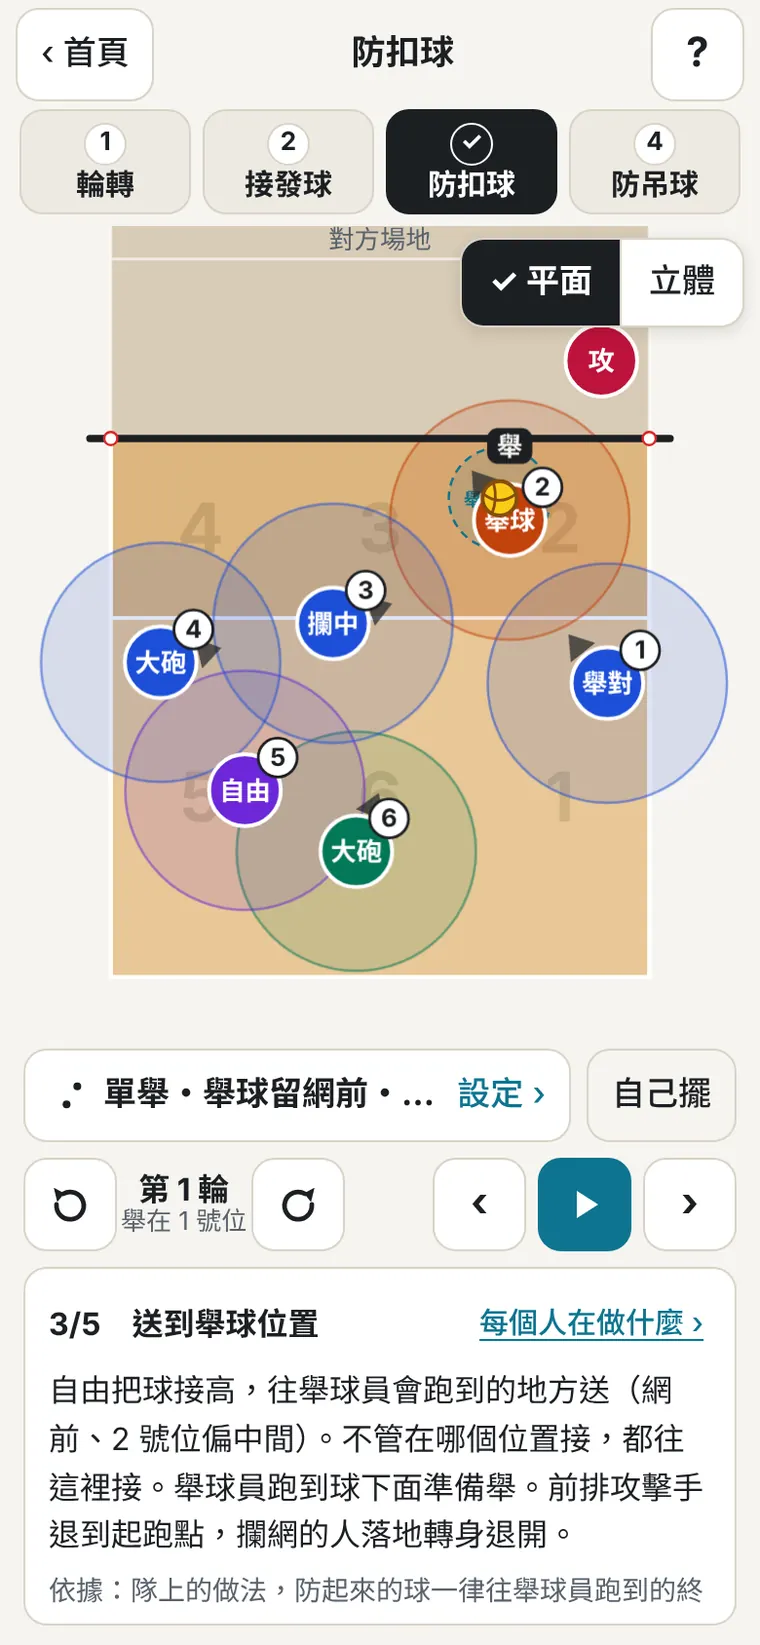
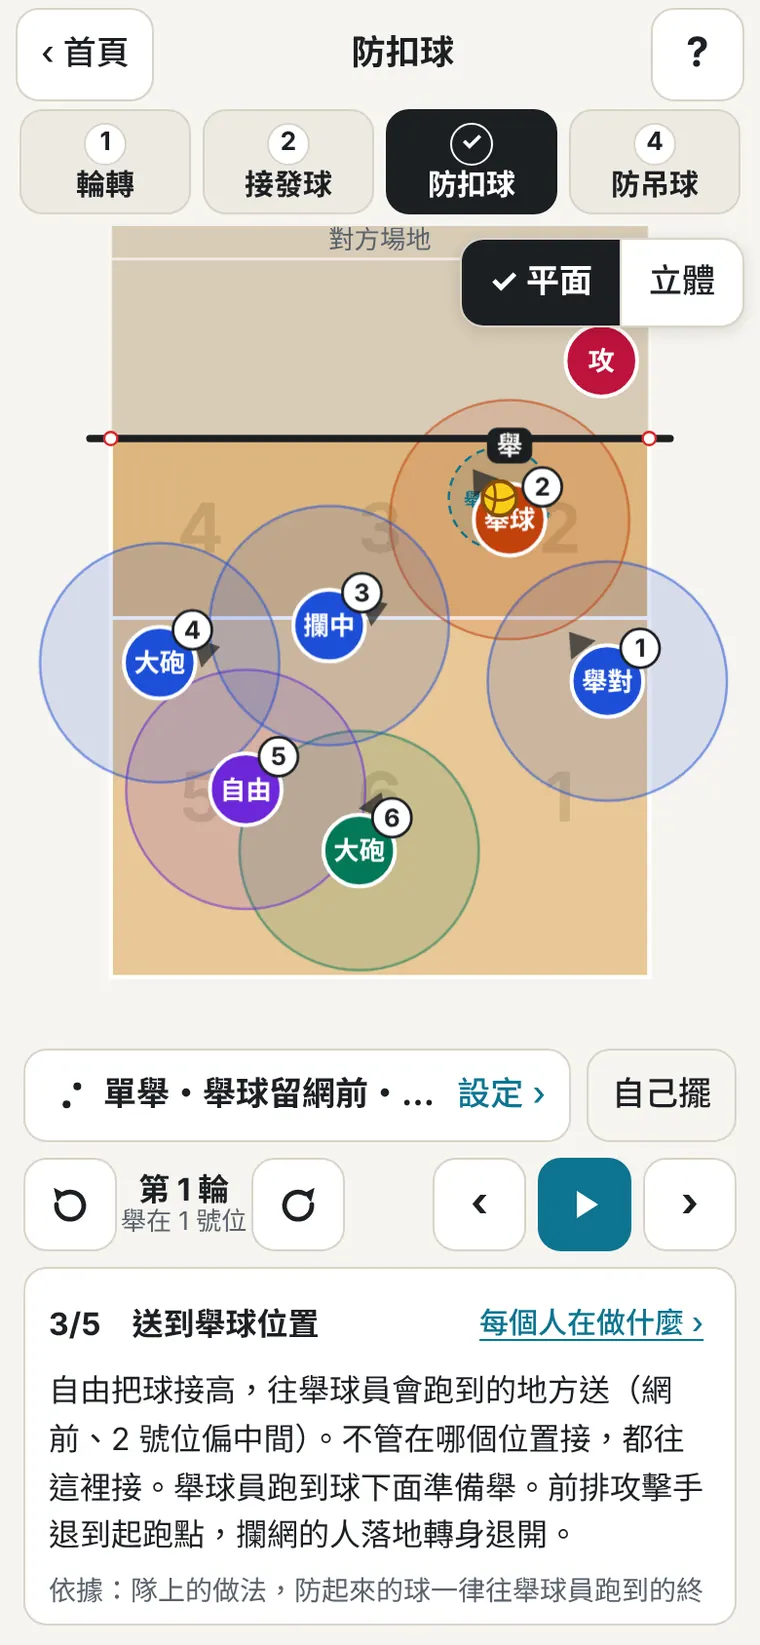
排球站位教室 v2.4.0：舉球時球從舉球的人手上出去、隊員版
- 舉球那一步：舉球的人留在球下面把球舉出去，舉完才就近保護（之前大家先跑走，球從沒人的地方飛出去）
- 隊員版（?team=1）：只留隊上的站法和自己擺，教練用的選項藏起來；設定裡可以傳隊員版連結
- 說明圖重拍

Claude-Session: https://claude.ai/code/session_01Q8m2fzsawgKx5UKmuuzCmE

diff --git a/js/app.js b/js/app.js
@@ -4,11 +4,11 @@
 (() => {
 'use strict';
 
-const APP_VERSION = '2.3.0';
+const APP_VERSION = '2.4.0';
 const BUILD_DATE = '2026-11-16';
 const VERSION_TEXT = `v${APP_VERSION}（${BUILD_DATE}）`;
 const COPY = '© 2026 Ken Chen';
-const KEY = { settings:'vbdef.settings.v1', custom:'vbdef.custom.v1', hint:'vbdef.hint.drag.v1', hint2:'vbdef.hint.v2', screen:'vbdef.screen' };
+const KEY = { simple:'vbdef.simple.v1', settings:'vbdef.settings.v1', custom:'vbdef.custom.v1', hint:'vbdef.hint.drag.v1', hint2:'vbdef.hint.v2', screen:'vbdef.screen' };
 const NS = 'http://www.w3.org/2000/svg';
 const VB = { x:-0.45, y:-3.55, w:9.9, h:13.55 };
 const TARGET = [4.8, 2.6];                       // （舊的目標區，只留給測試對照）
@@ -128,6 +128,21 @@ function sanitizeCustom(o){
   return r;
 }
 const S = Object.assign({}, DEFAULTS, sanitizeSettings(store.get(KEY.settings, {})));
+// 隊員版：網址加 ?team=1 打開就是隊員版（記在這台裝置），?coach=1 換回教練版
+let simple = store.get(KEY.simple, false) === true;
+try{
+  const qp = new URLSearchParams(location.search);
+  if (qp.has('team')){ simple = true; store.set(KEY.simple, true); }
+  if (qp.has('coach')){ simple = false; store.set(KEY.simple, false); }
+  if (qp.has('team') || qp.has('coach')) history.replaceState(history.state, '', location.pathname + location.hash);
+}catch(e){}
+// 隊員版固定用隊上的做法：單舉、隊上的接發球、舉球留網前、只有大砲和攔中攔網
+function applySimple(){
+  document.body.classList.toggle('simple', simple);
+  if (!simple) return;
+  Object.assign(S, { system:'51', recv:'team', formation:'ours', canOH:true, canMB:true, canR:false, mbLate:false, libero:5, radius:2 });
+}
+applySimple();
 S.attacker = Object.assign({}, S.attacker);
 let custom = sanitizeCustom(store.get(KEY.custom, null));
 function saveSettings(){
@@ -569,17 +584,18 @@ function buildSteps(L, type, comp, dec, att){
   const H = HIT[hitter];
   const P3 = clonePos(P2);
   P3[hitter] = [H[0], H[1] + .2];
-  const others = ROLES.filter(r => r !== hitter).sort((p, q) => dist(P2[p], H) - dist(P2[q], H));
+  // 舉球的人留在原地把球舉出去（球從她手上出去），其他人才去保護
+  const others = ROLES.filter(r => r !== hitter && r !== setterRole).sort((p, q) => dist(P2[p], H) - dist(P2[q], H));
   const close = others.slice(0, 3), deep = others.slice(3);
   const sp = coverSpots(H);
   assignSpots(close, sp.close, P2, P3); assignSpots(deep, sp.deep, P2, P3);
   const over = [H[0] < 4.5 ? H[0] + 2.6 : H[0] - 2.6, -2.8];
   const toSide = hitter === 'OH1' ? '4 號位' : (hitter === 'OPP' ? '2 號位' : '中間');
   steps.push({ key:'set', title:'舉球・保護', pos:P3, face:H, ball:{ from:TG, to:H, dur:900, arc:1.0, z:[2.4, 2.95, 4.8], then:{ to:over, dur:300, arc:.1, z:[2.95, .05, 0] } },
-    cap:`${short(setterRole)}舉高球到${toSide}給${short(hitter)}攻擊。離攻擊手最近的三個人（${close.map(short).join('、')}）蹲低靠近保護，另外兩個人站後面一點：球被攔回來才接得到。`,
-    rule:'依據：離攻擊手最近的三個人近距離保護，最遠的兩個人守後面（教練慣例）。',
-    marks:{ hit:hitter, target: d === 'S' ? 'fix' : 'rt' }, hitter,
-    notes:allNotes(r => r === hitter ? '助跑攻擊' : close.includes(r) ? '靠近攻擊手、蹲低保護' : '站後面一點，保護比較遠的球') });
+    cap:`${short(setterRole)}站在球下面，把球舉高到${toSide}給${short(hitter)}攻擊，舉完就近保護。離攻擊手最近的三個人（${close.map(short).join('、')}）蹲低靠近保護，${deep.length ? `${deep.map(short).join('、')}站後面一點` : '其他人站後面一點'}：球被攔回來才接得到。`,
+    rule:'依據：離攻擊手最近的人近距離保護，最遠的人守後面（教練慣例）。',
+    marks:{ hit:hitter, set:setterRole, target: d === 'S' ? 'fix' : 'rt' }, hitter,
+    notes:allNotes(r => r === hitter ? '助跑攻擊' : r === setterRole ? '站在球下面舉球，舉完就近保護' : close.includes(r) ? '靠近攻擊手、蹲低保護' : '站後面一點，保護比較遠的球') });
   // 4. 回防
   steps.push({ key:'reset', title:'回防', pos:clonePos(comp.base), ball:null, face:A,
     cap:'球過網後，大家回到基本站位，看對方舉給誰，再移動到防守位置。', marks:{},
@@ -737,7 +753,9 @@ function buildRecvSteps(L, rc, dec){
   const H = HIT[spot[hitter] || 'OH1'];
   const P3 = clonePos(P2);
   P3[hitter] = [H[0], H[1] + .2];
-  const others = ROLES.filter(r => r !== hitter).sort((p, q) => dist(P2[p], H) - dist(P2[q], H));
+  const setterRole = 'S';
+  // 舉球員留在原地把球舉出去（球從她手上出去），其他人才去保護
+  const others = ROLES.filter(r => r !== hitter && r !== setterRole).sort((p, q) => dist(P2[p], H) - dist(P2[q], H));
   const close = others.slice(0, 3), deep = others.slice(3);
   const sp = coverSpots(H);
   assignSpots(close, sp.close, P2, P3); assignSpots(deep, sp.deep, P2, P3);
@@ -745,10 +763,10 @@ function buildRecvSteps(L, rc, dec){
   const toSide = spot[hitter] === 'OPP' ? '2 號位' : (spot[hitter] === 'MB' ? '中間' : '4 號位');
   steps.push({ key:'set', title:'舉球・保護', pos:P3, face:H, off:[], hitter,
     ball:{ from:rt(), to:H, dur:950, arc:1.0, z:[2.4, 2.95, 4.8], then:{ to:over, dur:320, arc:.1, z:[2.95, .05, 0] } },
-    cap:`舉球員舉高球到${toSide}給${short(hitter)}攻擊。離攻擊手最近的三個人（${close.map(short).join('、')}）蹲低靠近保護，另外兩個人站後面一點。` +
+    cap:`舉球員站在球下面，把球舉高到${toSide}給${short(hitter)}攻擊，舉完就近保護。離攻擊手最近的三個人（${close.map(short).join('、')}）蹲低靠近保護，其他人站後面一點。` +
       (rc.swap ? `第一波打完，${short(rc.swap[0])}和${short(rc.swap[1])}再交換位置。` : ''),
-    rule:'依據：離攻擊手最近的三個人近距離保護，最遠的兩個人守後面（教練慣例）。', marks:{ hit:hitter, target:'rt' },
-    notes:allNotes(r => r === hitter ? '助跑攻擊' : close.includes(r) ? '靠近攻擊手、蹲低保護' : '站後面一點，保護比較遠的球') });
+    rule:'依據：離攻擊手最近的人近距離保護，最遠的人守後面（教練慣例）。', marks:{ hit:hitter, set:'S', target:'rt' },
+    notes:allNotes(r => r === hitter ? '助跑攻擊' : r === 'S' ? '站在球下面舉球，舉完就近保護' : close.includes(r) ? '靠近攻擊手、蹲低保護' : '站後面一點，保護比較遠的球') });
   // 4. 換到防守位置
   if (rc.team){
     const tb = teamBase(libOff);
@@ -1748,6 +1766,8 @@ function refreshSitUI(){
   $('chipR').textContent = rName();
   $('blockDesc').textContent = blockDesc();
   $('blockResDesc').textContent = BLOCKRES_DESC[S.blockRes];
+  document.querySelectorAll('#modeChips button').forEach(b => b.setAttribute('aria-pressed', String((b.dataset.v === 'team') === simple)));
+  $('modeDesc').textContent = simple ? '隊員版：只有隊上的站法和自己擺，設定只留常用的幾項。' : '教練版：可以換進攻系統、接發球隊形、防守隊形、誰會攔網。傳給隊員時用下面的按鈕，她們打開就是隊員版。';
   $('flowDesc').textContent = S.flow === 'step' ? '每一步停下來讓你看說明，再自動播下一步。' : '球在空中不停下來，像真的比賽；想看每一步的說明，按暫停或用 ‹ › 前後看。';
   document.querySelectorAll('.chips[data-key="mbLate"] button').forEach(b => { b.setAttribute('aria-pressed', String((S.mbLate ? '1' : '0') === b.dataset.v)); b.setAttribute('aria-disabled', String(!S.canMB)); });
 }
@@ -1763,6 +1783,20 @@ function onChip(key, v){
   saveSettings(); refreshSitUI(); refreshStepUI();
   resetPlay(false, 400);
   if (msg) toast(msg, '復原', () => { Object.assign(S, prev); saveSettings(); refreshSitUI(); resetPlay(false, 400); });
+}
+
+function setSimple(on){
+  if (simple === on) return;
+  simple = on; store.set(KEY.simple, on); applySimple(); DIAG = null;
+  saveSettings(); refreshSitUI(); refreshStepUI(); resetPlay(false, 400);
+  toast(on ? '換成隊員版：只留隊上的站法和自己擺' : '換成教練版：所有選項都打開了');
+}
+function shareTeamLink(){
+  const url = location.origin + location.pathname + '?team=1&openExternalBrowser=1';
+  const done = () => toast('已複製隊員版連結，可以貼到 LINE 群組');
+  if (navigator.share){ navigator.share({ title:'排球站位教室（隊員版）', text:'隊上的站法：輪轉、接發球、防守，可以自己擺站位', url }).catch(() => {}); return; }
+  if (navigator.clipboard && navigator.clipboard.writeText) navigator.clipboard.writeText(url).then(done, () => toast(url, null, null, 8000));
+  else toast(url, null, null, 8000);
 }
 
 /* ---------- 底部（或側邊）面板、說明 ---------- */
@@ -1877,7 +1911,7 @@ const HELP = [
     { img:'help/rot-1.webp', h:'每一輪誰站哪裡', p:'6 個人站在這一輪的號位。下面的說明寫出前排、後排是誰，舉球員在幾號位。' },
     { img:'help/rot-2.webp', h:'按 ↻ 換下一輪', p:'按輪次旁邊的 ↻，大家順時針轉一格（2→1→6→5→4→3），轉到 1 號位的人發球。後排的攔中會換成自由（攔中發球時除外）。' },
     { img:'help/rot-3.webp', h:'按 ▶ 看我們發球怎麼換位', p:'按播放：發球員走到底線後面，其他人先站到方便換位的地方（紅色箭頭是要換去的位置），發球一出手就換到防守位置。選「隊上的站法」時，照教練畫的圖。' },
-    { img:'help/sit-1.webp', h:'換單舉、雙輔舉、雙舉', p:'點下面的「設定」，選進攻系統和接發球隊形。「隊上的站法」是教練畫的單舉；學姐跑雙輔舉時，切換一下就能看怎麼站。' },
+    { coach:true, img:'help/sit-1.webp', h:'換單舉、雙輔舉、雙舉', p:'點下面的「設定」，選進攻系統和接發球隊形。「隊上的站法」是教練畫的單舉；學姐跑雙輔舉時，切換一下就能看怎麼站。' },
   ]},
   { id:'recv', title:'2 接發球', cards:[
     { img:'help/recv-1.webp', h:'發球前怎麼站', p:'標「不接」的人不接發球。細虛線連起來的兩個人，發球那一刻不能前後或左右交換（站位規則）；有箭頭的虛線是舉球員發球後要跑的路線。圈圈是每個接發球的人負責的範圍。' },
@@ -1896,7 +1930,7 @@ const HELP = [
   ]},
   { id:'situation', title:'設定', cards:[
     { img:'help/sit-1.webp', h:'點「設定」打開', p:'手機直放時，設定從下面打開，上面的球場還看得到；手機橫放、平板橫放和電腦，設定從右邊打開。改了馬上看得到結果。' },
-    { img:'help/sit-2.webp', h:'誰會攔網、攔網碰到球', p:'「誰會攔網」可以複選；隊上舉球員、舉對不攔，所以只勾大砲和攔中。「攔網碰到球的時候」預設是碰手變小球，可以看攔網後面誰去接；也可以選攔死或沒攔到。' },
+    { coach:true, img:'help/sit-2.webp', h:'誰會攔網、攔網碰到球', p:'「誰會攔網」可以複選；隊上舉球員、舉對不攔，所以只勾大砲和攔中。「攔網碰到球的時候」預設是碰手變小球，可以看攔網後面誰去接；也可以選攔死或沒攔到。' },
   ]},
   { id:'free', title:'自己擺站位', cards:[
     { img:'help/free-1.webp', h:'按「自己擺」', p:'在「3 防扣球」或「4 防吊球」按「自己擺」，6 個人都可以拖。前排拉到網前就算攔網，後排拉到網前也不能攔。' },
@@ -1930,10 +1964,11 @@ function diagApi(){
     cover(H){ return coverSpots(H); },
   };
 }
+const COACH_TOPICS = ['recvforms', 'r51', 'r62', 'r42', 'defense'];
 function cardTopics(){
-  if (cardSet !== 'diag') return HELP;
+  if (cardSet !== 'diag') return simple ? HELP.map(t => Object.assign({}, t, { cards:t.cards.filter(c => !c.coach) })).filter(t => t.cards.length) : HELP;
   if (!DIAG) DIAG = VBDiag.topics(diagApi());
-  return DIAG;
+  return simple ? DIAG.filter(t => !COACH_TOPICS.includes(t.id)) : DIAG;
 }
 function buildHelpToc(){
   const toc = $('helpToc'); toc.innerHTML = '';
@@ -2057,6 +2092,8 @@ function bind(){
   document.querySelectorAll('.seg-view button').forEach(b => b.addEventListener('click', () => { if ((b.dataset.view === '3d') !== v3.on) set3D(b.dataset.view === '3d'); }));
   $('camSel').addEventListener('change', e => { if (CAMS.includes(e.target.value)){ S.cam = e.target.value; saveSettings(); v3.cam = null; } });
   document.querySelectorAll('.chips[data-key]').forEach(c => c.querySelectorAll('button').forEach(b => b.addEventListener('click', () => onChip(c.dataset.key, b.dataset.v))));
+  document.querySelectorAll('#modeChips button').forEach(b => b.addEventListener('click', () => setSimple(b.dataset.v === 'team')));
+  $('btnShareTeam').addEventListener('click', shareTeamLink);
   document.querySelectorAll('.chips-multi button').forEach(b => b.addEventListener('click', () => onChip(b.dataset.k)));
   $('btnSit').addEventListener('click', () => openSheet('sitSheet'));
   $('btnDetail').addEventListener('click', () => { renderDetail(); openSheet('detSheet'); });

diff --git a/index.html b/index.html
@@ -206,7 +206,7 @@
       </ul>
     </details>
 
-    <details>
+    <details data-coach>
       <summary>進攻系統：單舉、雙輔舉、雙舉</summary>
       <ul>
         <li><b>單舉（5-1）</b>：一位舉球員六輪都舉。她在後排時，前排有三個攻擊手；她在前排時只剩兩個。</li>
@@ -345,14 +345,14 @@
   <div class="sheet-head"><h2 id="sitTitle">設定</h2><button class="btn btn-text" data-close>完成</button></div>
   <div class="sheet-body" id="sitSheetBody">
     <div id="sitForm" class="sitform">
-      <fieldset>
+      <fieldset class="coach-only">
         <legend>進攻系統</legend>
         <div class="chips" data-key="system">
           <button data-v="51">單舉 5-1</button><button data-v="62">雙輔舉 6-2</button><button data-v="42">雙舉 4-2</button>
         </div>
         <p class="hint-line" id="sysDesc"></p>
       </fieldset>
-      <fieldset>
+      <fieldset class="coach-only">
         <legend>接發球隊形</legend>
         <div class="chips" data-key="recv">
           <button data-v="team">隊上的站法</button><button data-v="w5">五人 W</button><button data-v="p4">四人</button><button data-v="p3">三人</button>
@@ -365,14 +365,14 @@
           <button data-v="true">有自由</button><button data-v="false">沒有（後排攔中自己接）</button>
         </div>
       </fieldset>
-      <fieldset>
+      <fieldset class="coach-only">
         <legend>防守隊形</legend>
         <div class="chips" data-key="formation">
           <button data-v="ours">舉球留網前（隊上）</button><button data-v="up">心跟進</button><button data-v="rot">邊跟進</button><button data-v="per">心後</button>
         </div>
         <p class="hint-line" id="formDesc"></p>
       </fieldset>
-      <fieldset>
+      <fieldset class="coach-only">
         <legend>誰會攔網（可以複選，不夠高的人取消）</legend>
         <div class="chips chips-multi">
           <button data-k="canOH">大砲</button><button data-k="canMB">攔中</button><button data-k="canR" id="chipR">舉對</button>
@@ -386,19 +386,19 @@
         </div>
         <p class="hint-line" id="blockResDesc"></p>
       </fieldset>
-      <fieldset>
+      <fieldset class="coach-only">
         <legend>攔中跟得上邊線嗎</legend>
         <div class="chips" data-key="mbLate">
           <button data-v="0">跟得上</button><button data-v="1">來不及</button>
         </div>
       </fieldset>
-      <fieldset>
+      <fieldset class="coach-only">
         <legend>自由固定守</legend>
         <div class="chips" data-key="libero">
           <button data-v="5">5 號位</button><button data-v="6">6 號位</button>
         </div>
       </fieldset>
-      <fieldset>
+      <fieldset class="coach-only">
         <legend>防守範圍半徑（公尺）</legend>
         <div class="chips" data-key="radius">
           <button data-v="1.2">1.2</button><button data-v="1.6">1.6</button><button data-v="2">2.0</button><button data-v="2.4">2.4</button>
@@ -416,6 +416,14 @@
           <button data-v="flow">連續（像比賽）</button><button data-v="step">每一步停下來</button>
         </div>
         <p class="hint-line" id="flowDesc"></p>
+      </fieldset>
+      <fieldset>
+        <legend>給誰用</legend>
+        <div class="chips" id="modeChips">
+          <button data-v="team">隊員版（簡單）</button><button data-v="coach">教練版（全部功能）</button>
+        </div>
+        <p class="hint-line" id="modeDesc"></p>
+        <button class="btn btn-ghost coach-only" id="btnShareTeam">傳隊員版連結給隊員</button>
       </fieldset>
     </div>
   </div>

diff --git a/sw.js b/sw.js
@@ -1,6 +1,6 @@
 /* 排球站位教室：離線快取。先問網站有沒有新版（最多等 3 秒），連不上或回錯誤就用存好的版本。 */
 const PREFIX = 'vbdef-';
-const VERSION = '2.3.0';
+const VERSION = '2.4.0';
 const CACHE = PREFIX + VERSION;
 const ASSETS = [
   './', 'index.html', 'css/app.css', 'js/rotation.js', 'js/render3d.js', 'js/gl3d.js', 'js/diagrams.js', 'js/app.js', 'manifest.webmanifest',

diff --git a/css/app.css b/css/app.css
@@ -343,3 +343,7 @@ details > :last-child{margin-bottom:14px}
   max-width:calc(100vw - 32px); font-size:.9375rem; box-shadow:0 6px 20px rgba(0,0,0,.2);
 }
 .toast .btn-link{color:var(--bg)}
+
+/* 隊員版：只留隊上的站法和自己擺，教練用的選項藏起來 */
+body.simple .coach-only, body.simple [data-coach]{ display:none !important; }
+#btnShareTeam{ margin-top:8px; width:100%; }

diff --git a/README.md b/README.md
@@ -9,6 +9,7 @@
 - **2 接發球**：五人 W、四人、三人接；發球那一刻的站位規則（虛線連起來的兩個人不能前後或左右交換）自動檢查，拖球看誰接發球、哪隻腳在前、怎麼接，接著傳到舉球員、舉球・保護、換到防守位置。
 - **3 防扣球、4 防吊球**：紅色是扣球打得到的地方，橘色斜線是只能吊球的地方（攔網陰影和網前），拖對方攻擊手、拖球看誰接、誰補位。可以切到「自己擺」拖 6 個人。
 - **往哪接**（隊上的做法）：防起來的球一律往舉球員跑到的終點接（網前、2 號位偏中間）；舉球員接第一球時，送給 1 號位跑上來的舉對（輔舉）修正，離網稍微開一點。
+- **隊員版**：網址加 `?team=1`（設定裡「傳隊員版連結給隊員」會自動帶），只留隊上的站法和自己擺，設定只剩自由、攔網碰到球、播放速度和方式；`?coach=1` 換回教練版。記在 `vbdef.simple.v1`。
 - **播放方式**：預設連續播放，球在空中不停下來；設定可以改成每一步停下來看說明。
 - **隊上的防守**（預設）：舉球員和舉對都不攔網，舉球員守 2 號位的短球，長一點的給 1 號位的舉對。球打進攔網範圍時，可以選「碰手變小球」（預設，看攔網後面誰去接）、「攔死」或「沒攔到」。
 - **立體畫面**：用 WebGL 畫的人形球員（會蹲低準備、跑、攔網跳起來、雙手接球），預設慢動作；可以用接球的人的眼睛（第一人稱）看扣球慢慢飛過來、接進自己的雙手。不需要網路或外部套件；手機不支援 WebGL 時改用簡單的畫法。
@@ -35,7 +36,7 @@
 
 ## 退回舊版
 
-每次改版前都會先把目前的 `main` 另存成備份分支（例如 `backup-v1.1.0`、`backup-v2.0.0`、`backup-v2.1.0`、`backup-v2.2.0`）。新版有問題時：
+每次改版前都會先把目前的 `main` 另存成備份分支（例如 `backup-v1.1.0`、`backup-v2.0.0`、`backup-v2.1.0`、`backup-v2.2.0`、`backup-v2.3.0`）。新版有問題時：
 
 1. 在 GitHub 打開備份分支，把檔案放回 `main`（或在電腦上 `git checkout backup-v1.1.0 -- .` 再推上去）。
 2. 把 `sw.js` 的 `VERSION` 改成一個新的號碼（例如 `1.1.1`），手機才會丟掉有問題的快取。
